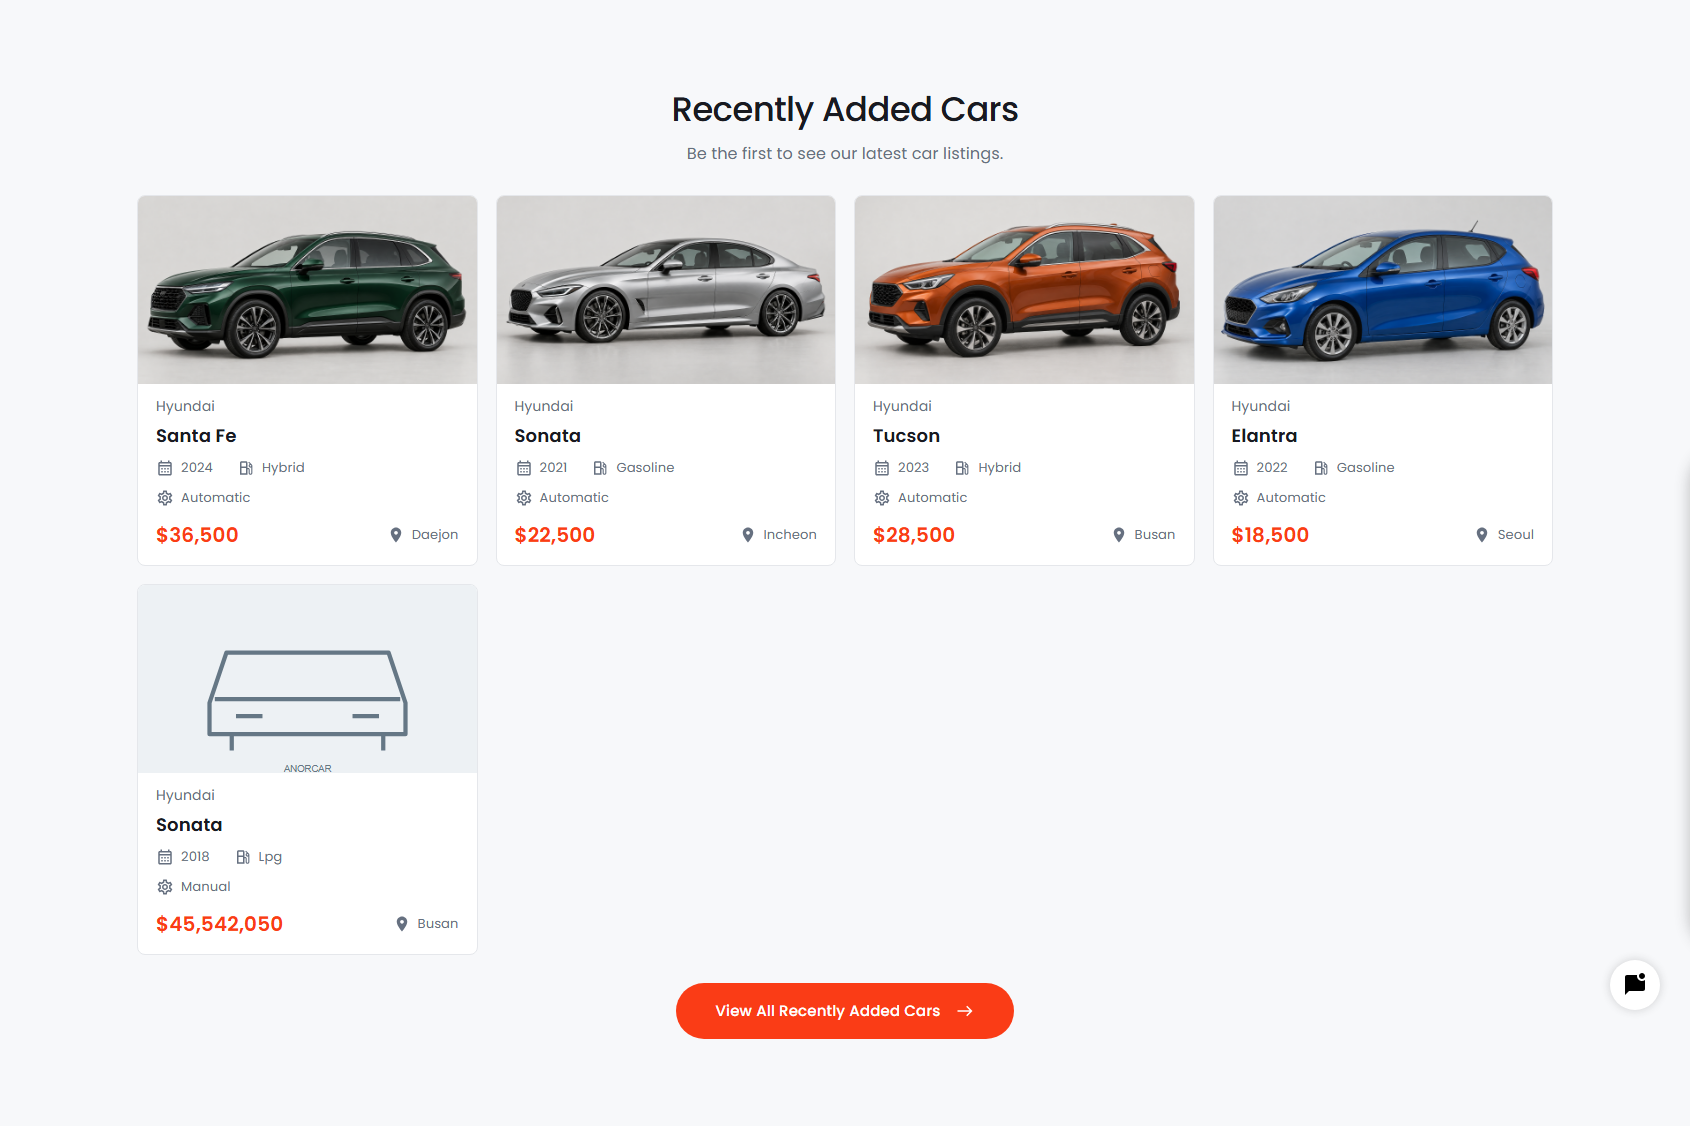
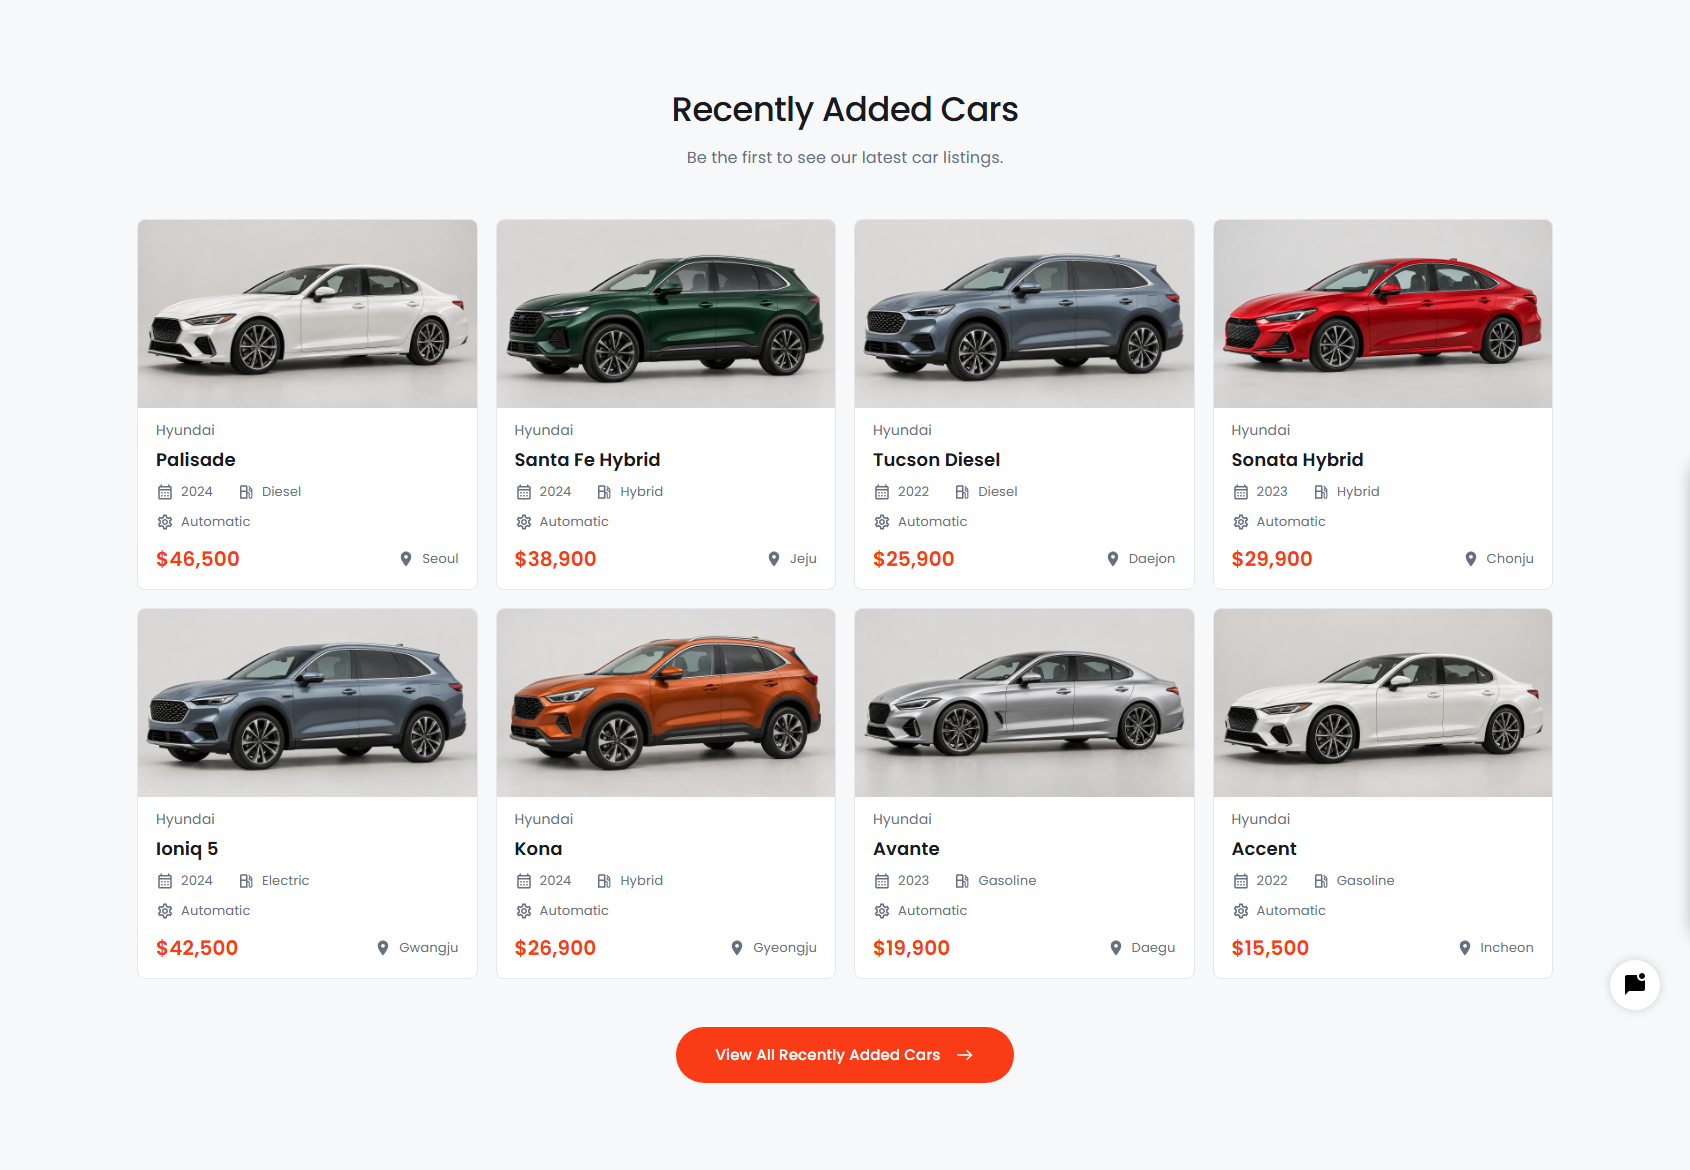
fix: improve Recently added section UI

diff --git a/scss/pc/homepage/homepage.scss b/scss/pc/homepage/homepage.scss
@@ -1347,9 +1347,9 @@
  .home-page .recently-added-cars {
   width: 100%; padding: 84px 0 88px; background: #f7f8fa; font-family: $font;
   .container { width: calc(100% - 160px); max-width: 1416px; min-width: 0; padding: 0; margin: 0 auto; align-items: stretch; }
-  .recent-heading { text-align: center; margin-bottom: 28px;
+  .recent-heading { text-align: center; margin-bottom: 48px;
    h2 { margin: 0; color: #181a20; font-size: 34px; font-weight: 500; line-height: 150%; letter-spacing: -.646px; }
-   p { margin: 6px 0 0; font-size: 16px; font-weight: 400; line-height: 26px; color: #667080; }
+   p { margin: 10px 0 0; font-size: 16px; font-weight: 400; line-height: 26px; color: #667080; }
   }
   .recent-grid { display: grid; grid-template-columns: repeat(4, minmax(0, 1fr)); gap: 18px; }
   .recent-car-card { display: flex; flex-direction: column; min-width: 0; border: 1px solid #e5e7eb; border-radius: 8px; background: #fff; overflow: hidden; color: #181a20;
@@ -1369,7 +1369,7 @@
   .recent-price-location { display: flex; align-items: center; justify-content: space-between; flex-wrap: wrap; gap: 8px; margin-top: 4px;
    strong { font-size: 20px; font-weight: 600; line-height: 28px; color: #fa3c16; }
   }
-  .recent-view-all { display: inline-flex; align-items: center; justify-content: center; gap: 16px; align-self: center; margin-top: 28px; padding: 16px 40px; max-width: 100%; box-sizing: border-box; border-radius: 40px; background: #fa3c16; color: #fff; font-size: 15px; font-weight: 500; line-height: 24px; text-align: center;
+  .recent-view-all { display: inline-flex; align-items: center; justify-content: center; gap: 16px; align-self: center; margin-top: 48px; padding: 16px 40px; max-width: 100%; box-sizing: border-box; border-radius: 40px; background: #fa3c16; color: #fff; font-size: 15px; font-weight: 500; line-height: 24px; text-align: center;
    &:hover { background: #df3513; }
    &:focus-visible { outline: 2px solid #181a20; outline-offset: 3px; }
   }
@@ -1386,9 +1386,9 @@
   .home-page .recently-added-cars {
    padding: 40px 0 48px;
    .container { width: calc(100% - 28px); }
-   .recent-heading { h2 { font-size: 25px; } p { font-size: 14px; line-height: 24px; } }
+   .recent-heading { margin-bottom: 32px; h2 { font-size: 25px; } p { margin-top: 8px; font-size: 14px; line-height: 24px; } }
    .recent-grid { grid-template-columns: minmax(0, 1fr); gap: 16px; }
-   .recent-view-all { padding: 14px 22px; font-size: 14px; }
+   .recent-view-all { margin-top: 32px; padding: 14px 22px; font-size: 14px; }
   }
  }
 }

diff --git a/docs/DEMO_CARS_ADDITIONAL_10.md b/docs/DEMO_CARS_ADDITIONAL_10.md
@@ -1,0 +1,24 @@
+# Ten additional demo car listings
+
+Added on 2026-10-08 through normal createCar, getCar and likeTargetCar GraphQL operations. Reused existing demo AGENT and two demo USER accounts; no new accounts or backend/frontend source changes.
+
+Inventory: 5 ACTIVE before, 15 ACTIVE after. Exactly ten new listings. Owner memberCars: 14. Every new listing has one like and two unique authenticated views, qualifying for current Trending thresholds. Existing records and engagement left untouched.
+
+Prices are USD. Exact backend enums retained, including AVTOMATIC, CHONJU and DAEJON. All records explicitly describe themselves as fictional development demos. Images reuse existing illustrative Budget assets; they are not photographs of these exact models. No mileage or unsupported fields.
+
+| Listing | ID | USD | Image |
+| --- | --- | ---: | --- |
+| Demo Hyundai i10 2020 | 6ac758d0e8ca66a84a68305e | 8500 | /img/car/budget/budget-blue.png |
+| Demo Hyundai i20 2021 | 6ac758d1e8ca66a84a683077 | 12500 | /img/car/budget/budget-red.png |
+| Demo Hyundai Accent 2022 | 6ac758d2e8ca66a84a683090 | 15500 | /img/car/budget/budget-white.png |
+| Demo Hyundai Avante 2023 | 6ac758d3e8ca66a84a6830a9 | 19900 | /img/car/budget/budget-silver.png |
+| Demo Hyundai Kona 2024 | 6ac758d5e8ca66a84a6830c2 | 26900 | /img/car/budget/budget-orange.png |
+| Demo Hyundai Ioniq 5 2024 | 6ac758d6e8ca66a84a6830db | 42500 | /img/car/budget/budget-slate.png |
+| Demo Hyundai Sonata Hybrid 2023 | 6ac758d7e8ca66a84a6830f4 | 29900 | /img/car/budget/budget-red.png |
+| Demo Hyundai Tucson Diesel 2022 | 6ac758d8e8ca66a84a68310d | 25900 | /img/car/budget/budget-slate.png |
+| Demo Hyundai Santa Fe Hybrid 2024 | 6ac758d9e8ca66a84a683126 | 38900 | /img/car/budget/budget-green.png |
+| Demo Hyundai Palisade 2024 | 6ac758e4e8ca66a84a68313f | 46500 | /img/car/budget/budget-white.png |
+
+Validation: all ten IDs present and ACTIVE, exactly +10 total, valid asset paths, each >=1 like and >=2 views. Yarn typecheck and live GraphQL (42 operations, three inline uploads and enums) passed. Actual browser verified Recently Added eight listings in createdAt DESC/API ID order, 4/2/1 responsive columns, images, CTA inquiry/navigation, locales and 390/320 mobile without overflow or runtime exceptions. Other live section counts: Trending 8, Popular 7, Top 8. Existing display limits preserved.
+
+No commit/deployment or credentials included. Development server remains at localhost:3000.
